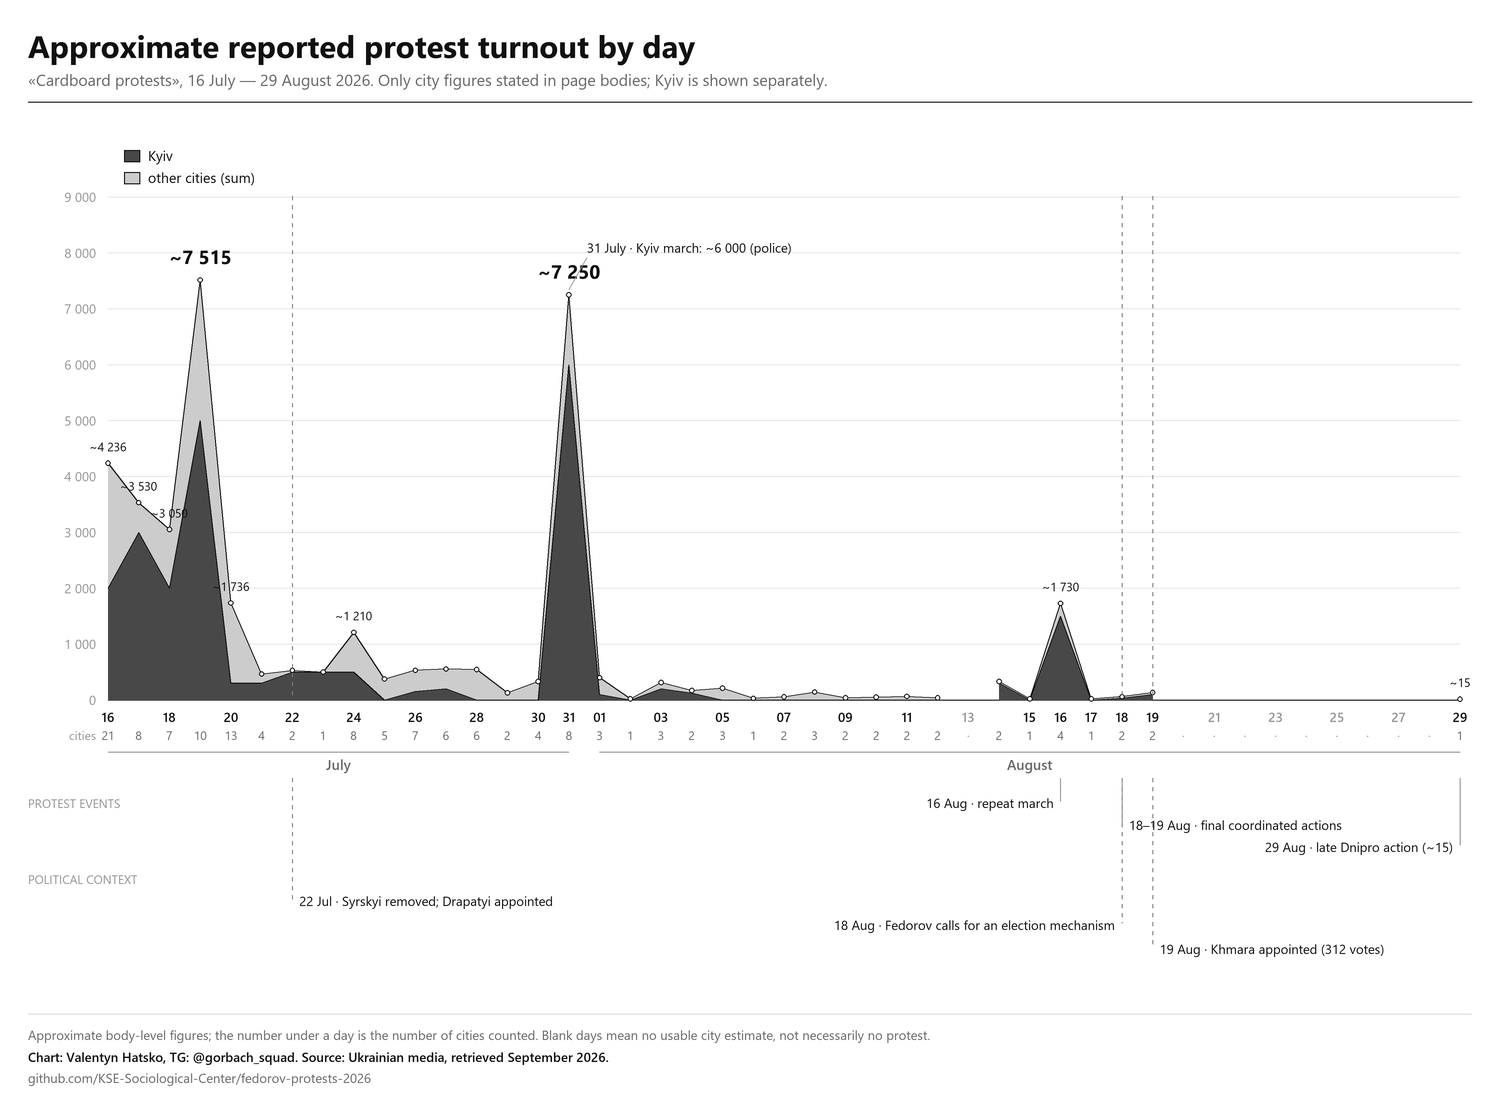
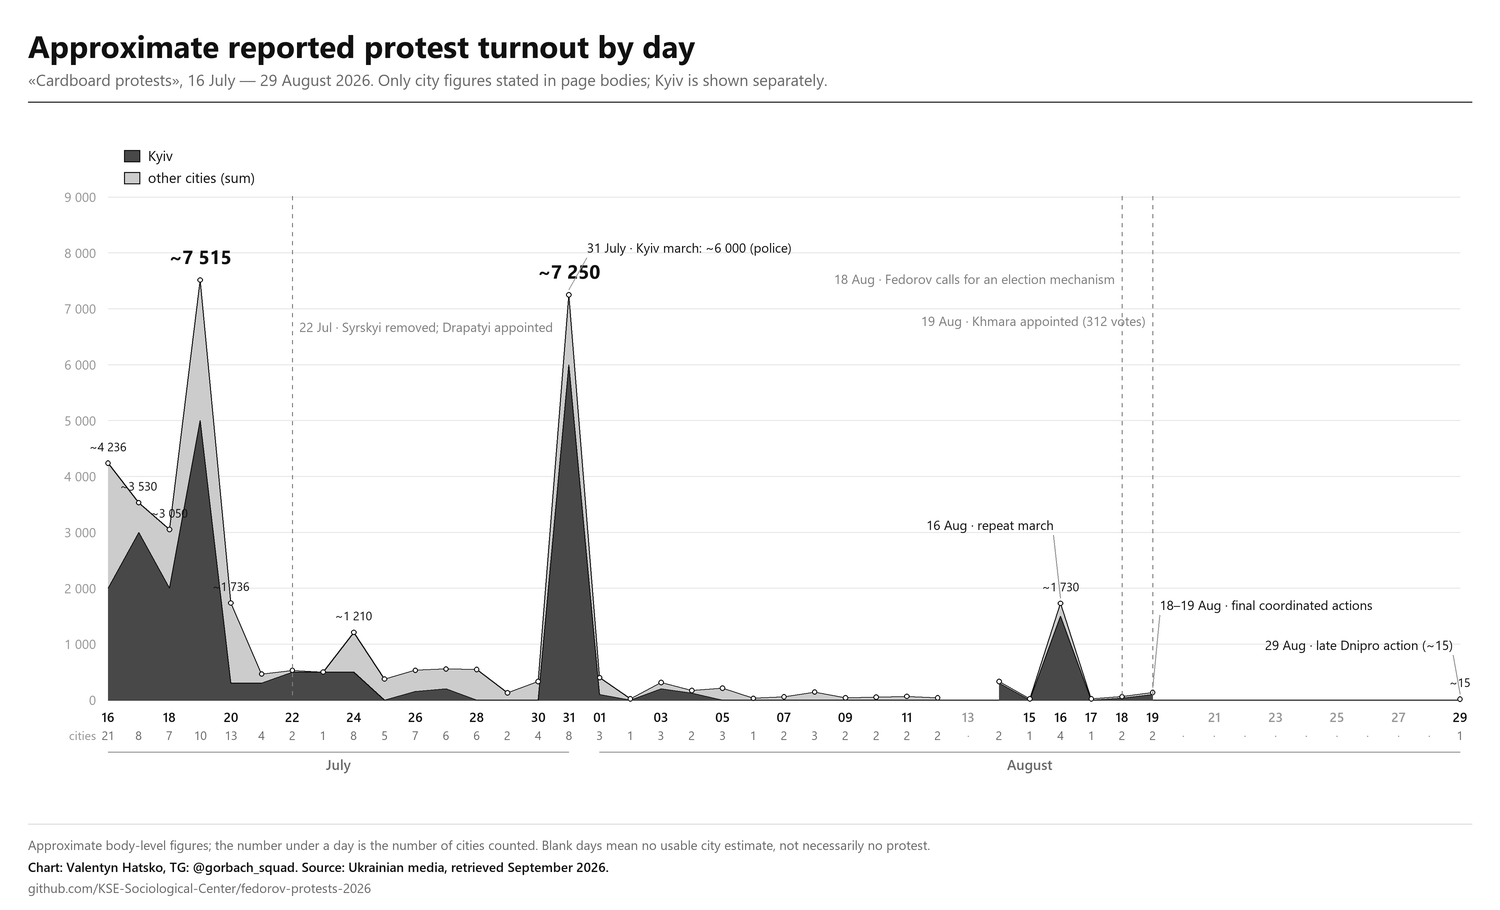
Move timeline annotations into chart

diff --git a/build_chart.py b/build_chart.py
@@ -21,7 +21,7 @@ META = json.load(io.open(ds("meta.json"), encoding="utf-8"))
 AUTHOR = META["author_en"]
 FDIR = r"C:\Windows\Fonts"
 S = 3
-W, H = 1500, 1100
+W, H = 1500, 910
 
 def font(names, size):
     for n in names:
@@ -70,8 +70,17 @@ counted = [k for k in DAYCOLS if tot[k] > 0]         # days with at least one fi
 
 img = Image.new("RGB", (W * S, H * S), WHITE)
 d = ImageDraw.Draw(img)
+qa_boxes = []
+
 def T(x, y, s, f, fill, anchor="ls"):
     d.text((x * S, y * S), s, font=f, fill=fill, anchor=anchor)
+
+def QT(name, x, y, s, f, fill, anchor="ls", inside_plot=False):
+    """Draw and register plot text for collision/bounds checks."""
+    T(x, y, s, f, fill, anchor)
+    box = tuple(v / S for v in d.textbbox((x * S, y * S), s, font=f, anchor=anchor))
+    qa_boxes.append((name, box, inside_plot))
+
 def line(pts, fill, w=1):
     d.line([(x * S, y * S) for x, y in pts], fill=fill, width=max(1, int(w * S)))
 def dashed_vline(x, y0, y1, fill=EVENT, w=1, on=5, off=5):
@@ -145,9 +154,9 @@ for i, k in enumerate(DAYCOLS):
               fill=WHITE, outline=BLACK, width=max(1, int(1.2 * S)))
     T(x, PY1 + 40, str(ncity[k]), F_SEG, GREY, anchor="ms")
     if k in crests:
-        T(x, y - 16, "~" + num(tot[k]), F_PEAK, BLACK, anchor="ms")
+        QT("total " + k, x, y - 16, "~" + num(tot[k]), F_PEAK, BLACK, anchor="ms")
     elif tot[k] >= 1200 or i in (0, n - 1):
-        T(x, y - 12, "~" + num(tot[k]), F_SEG, BLACK, anchor="ms")
+        QT("total " + k, x, y - 12, "~" + num(tot[k]), F_SEG, BLACK, anchor="ms")
 
 # month bands under the day numbers
 seg, prev = [], None
@@ -170,39 +179,38 @@ if MARCH in DAYCOLS and tot[MARCH]:
     note = "31 July · Kyiv march: ~6 000 (police)"
     nx = min(px + 18, PX1 - F_NOTE.getbbox(note)[2] / S)
     ny = max(PY0 + 8, py - 42)
-    T(nx, ny, note, F_NOTE, BLACK)
+    QT("31 July march", nx, ny, note, F_NOTE, BLACK, inside_plot=True)
     line([(px, py - 5), (nx, ny + 5)], GREY_L, 1)
 
+# Protest-event labels use short leaders and occupy the otherwise empty right half
+# of the data region. Political context keeps the full-height dashed rules, but its
+# labels also live in the plot instead of consuming two extra bands below it.
 event_notes = [
-    ("08-16", 808, "16 Aug · repeat march", "rs"),
-    ("08-18", 830, "18–19 Aug · final coordinated actions", "ls"),
-    (DAYCOLS[-1], 852, "29 Aug · late Dnipro action (~15)", "rs"),
+    ("08-16", 530, "16 Aug · repeat march", "rs"),
+    ("08-19", 610, "18–19 Aug · final coordinated actions", "ls"),
+    (DAYCOLS[-1], 650, "29 Aug · late Dnipro action (~15)", "rs"),
 ]
-T(28, 808, "PROTEST EVENTS", F_SEG, GREY_L)
 for k, yy, txt, anchor in event_notes:
     if k not in DAYCOLS:
         continue
     xx = sx(DAYCOLS.index(k))
     tx = xx - 7 if anchor == "rs" else xx + 7
-    line([(xx, PY1 + 78), (xx, yy - 7)], GREY_L, 1)
-    T(tx, yy, txt, F_NOTE, BLACK, anchor=anchor)
+    data_y = sy(tot[k]) if tot[k] else PY1
+    line([(xx, data_y - 5), (tx, yy + 5)], GREY_L, 1)
+    QT("protest " + k, tx, yy, txt, F_NOTE, BLACK, anchor=anchor, inside_plot=True)
 
-# Political context is a separate visual layer: thin dashed rules cross the plot,
-# while staggered labels below it keep adjacent 18–19 August events readable.
 political_events = [
-    ("07-22", 906, "22 Jul · Syrskyi removed; Drapatyi appointed", "ls"),
-    ("08-18", 930, "18 Aug · Fedorov calls for an election mechanism", "rs"),
-    ("08-19", 954, "19 Aug · Khmara appointed (312 votes)", "ls"),
+    ("07-22", 332, "22 Jul · Syrskyi removed; Drapatyi appointed", "ls"),
+    ("08-18", 284, "18 Aug · Fedorov calls for an election mechanism", "rs"),
+    ("08-19", 326, "19 Aug · Khmara appointed (312 votes)", "rs"),
 ]
-T(28, 884, "POLITICAL CONTEXT", F_SEG, GREY_L)
 for k, yy, txt, anchor in political_events:
     if k not in DAYCOLS:
         continue
     xx = sx(DAYCOLS.index(k))
     tx = xx - 7 if anchor == "rs" else xx + 7
     dashed_vline(xx, PY0, PY1, EVENT, 1, on=4, off=5)
-    dashed_vline(xx, PY1 + 78, yy - 7, EVENT, 1, on=4, off=5)
-    T(tx, yy, txt, F_NOTE, BLACK, anchor=anchor)
+    QT("political " + k, tx, yy, txt, F_NOTE, EVENT, anchor=anchor, inside_plot=True)
 
 # ---- legend ------------------------------------------------------------------
 lx, ly = PX0 + 16, 150
@@ -228,10 +236,22 @@ if 28 + F_FOOT.getbbox(CAV)[2] / S > W - 28:
     over.append("caveat overflows")
 if 2 * (PX1 - PX0) / max(1, n - 1) < F_DAY.getbbox("00")[2] / S + 2:
     over.append("day labels collide")
+for name, box, inside_plot in qa_boxes:
+    if inside_plot and (box[0] < PX0 or box[1] < PY0 or box[2] > PX1 or box[3] > PY1):
+        over.append("%s outside plot" % name)
+for i, (name_a, a, _) in enumerate(qa_boxes):
+    for name_b, b, _ in qa_boxes[i + 1:]:
+        gap = 4
+        separated = (a[2] + gap <= b[0] or b[2] + gap <= a[0]
+                     or a[3] + gap <= b[1] or b[3] + gap <= a[1])
+        if not separated:
+            over.append("text collision: %s / %s" % (name_a, name_b))
 print("days: %d (%s..%s) | counted: %d" % (n, DAYCOLS[0], DAYCOLS[-1], len(counted)))
 for k in crests:
     print("  crest %s = %d (Kyiv %d, %d cities counted)" % (k, tot[k], kyiv[k], ncity[k]))
 print("series:", " ".join("%s=%d" % (k, tot[k]) for k in DAYCOLS))
 print("text overflow:", over or "none")
+if over:
+    raise SystemExit("chart QA failed: " + "; ".join(over))
 img.resize((W, H), Image.LANCZOS).save(ds("chart_by_day.png"), "PNG", optimize=True)
 print("saved:", ds("chart_by_day.png"), os.path.getsize(ds("chart_by_day.png")) // 1024, "KB")
